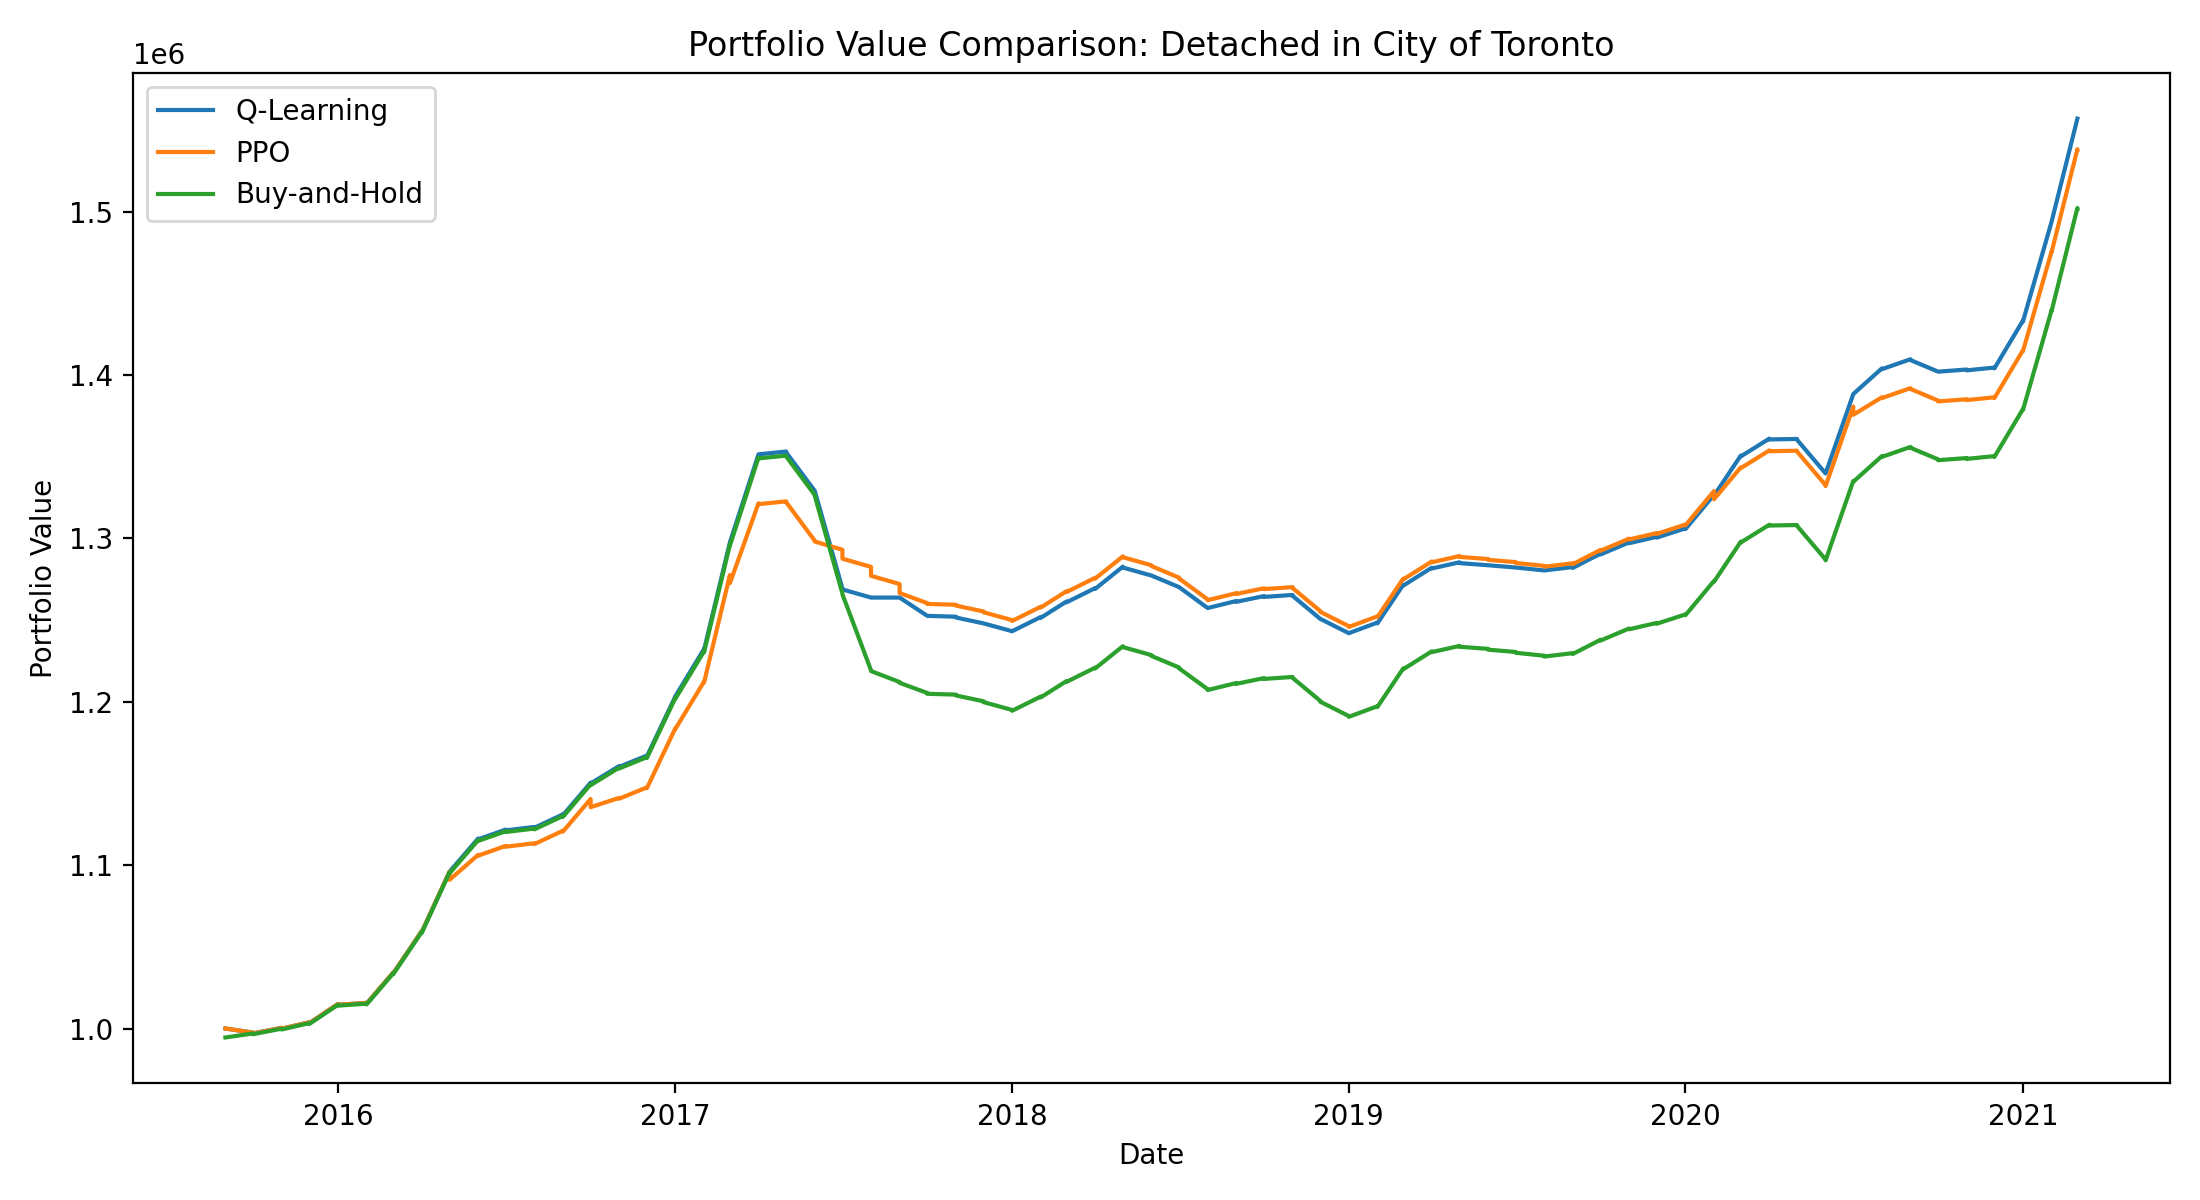
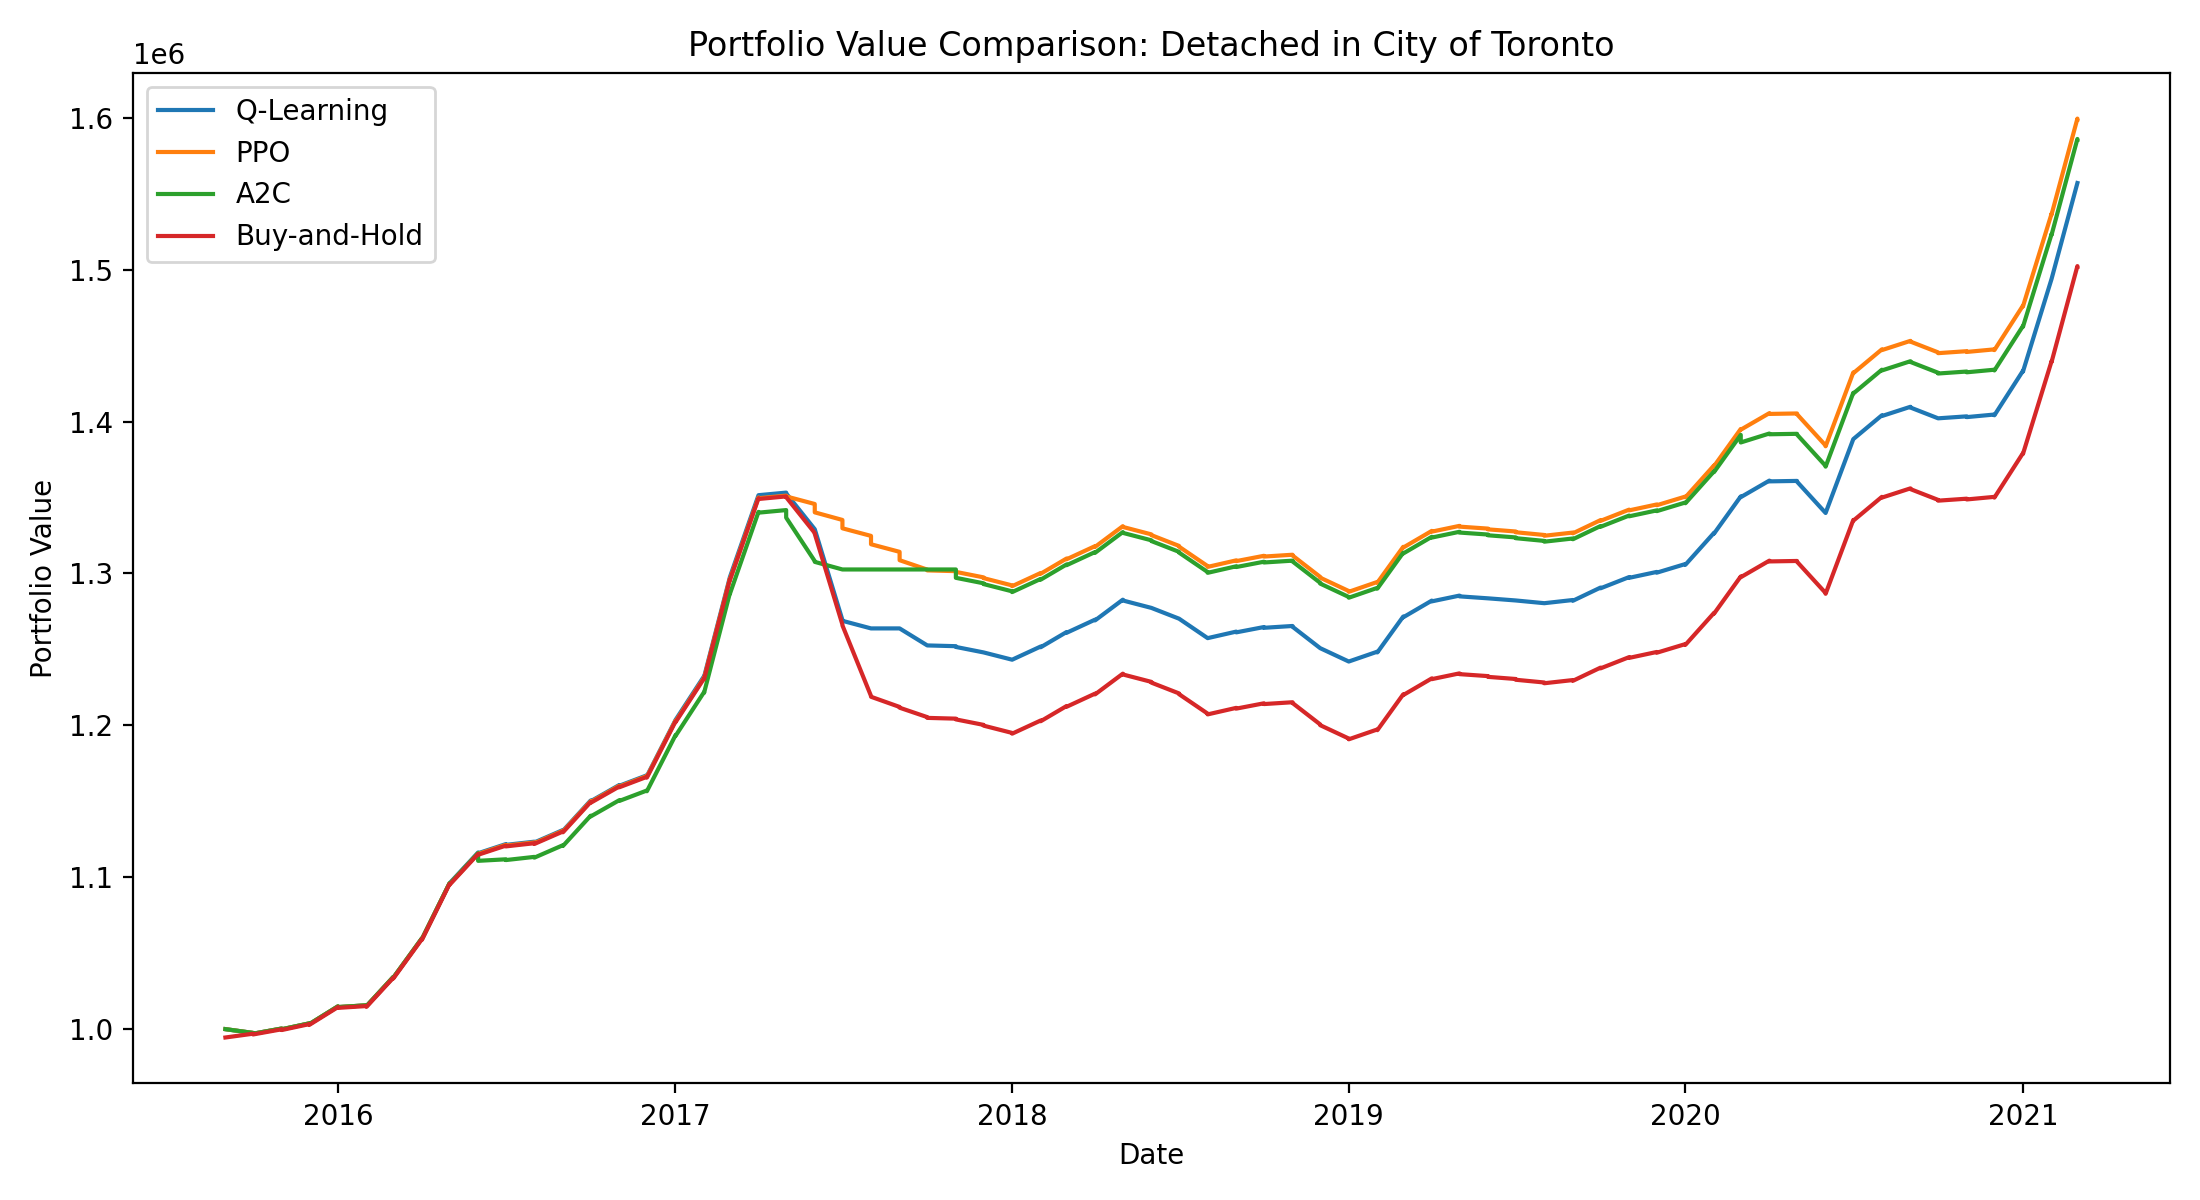
Final

diff --git a/HouseRL.py b/HouseRL.py
@@ -6,7 +6,7 @@ import matplotlib.pyplot as plt
 import numpy as np
 import pandas as pd
 from gymnasium import spaces
-from stable_baselines3 import PPO
+from stable_baselines3 import PPO, A2C
 from stable_baselines3.common.vec_env import DummyVecEnv, VecNormalize
 
 # ============================================================
@@ -38,8 +38,9 @@ EPSILON = 1.0
 EPSILON_DECAY = 0.995
 EPSILON_MIN = 0.05
 
-# PPO
+# PPO / A2C
 PPO_TIMESTEPS = 50_000
+A2C_TIMESTEPS = 150_000
 
 ACTIONS = {
     0: "BUY",
@@ -112,7 +113,6 @@ def bucket_return(x: float) -> str:
     if x < 0.02:
         return "UP_SMALL"
     return "UP_BIG"
-
 
 def bucket_momentum(x: float) -> str:
     if x < -0.02:
@@ -229,7 +229,6 @@ class QLearningAgent:
         td_error = td_target - self.q_table[state][action]
         self.q_table[state][action] += ALPHA * td_error
 
-
 def train_q_learning(df: pd.DataFrame, selected_area: str, selected_type: str):
     env = HousingEnv(df, selected_area, selected_type)
     agent = QLearningAgent()
@@ -254,7 +253,6 @@ def train_q_learning(df: pd.DataFrame, selected_area: str, selected_type: str):
 
     return agent, rewards_per_episode
 
-
 def evaluate_q_learning(agent: QLearningAgent, df: pd.DataFrame, selected_area: str, selected_type: str):
     env = HousingEnv(df, selected_area, selected_type)
     state = env.reset()
@@ -278,7 +276,7 @@ def evaluate_q_learning(agent: QLearningAgent, df: pd.DataFrame, selected_area: 
     })
 
 # ============================================================
-# GYM ENV FOR PPO
+# GYM ENV FOR PPO / A2C
 # ============================================================
 
 class HousingGymEnv(gym.Env):
@@ -367,7 +365,7 @@ class HousingGymEnv(gym.Env):
                 self.holding = 1
                 self.buy_price = current_price
             else:
-                invalid_penalty = -1.0
+                invalid_penalty = -0.2
 
         elif action == 1:  # SELL
             if self._can_sell():
@@ -375,7 +373,7 @@ class HousingGymEnv(gym.Env):
                 self.holding = 0
                 self.buy_price = 0.0
             else:
-                invalid_penalty = -1.0
+                invalid_penalty = -0.2
 
         elif action == 2:  # HOLD
             pass
@@ -390,27 +388,26 @@ class HousingGymEnv(gym.Env):
         next_price = self._current_price()
         new_value = self._portfolio_value(next_price)
 
-        # PPO learns better from scaled returns than raw dollars
         reward = 100.0 * ((new_value - old_value) / max(old_value, 1.0))
         reward += invalid_penalty
 
         if terminated:
-            return np.zeros(self.observation_space.shape, dtype=np.float32), float(reward), terminated, truncated, {}
+            zero_obs = np.zeros(self.observation_space.shape, dtype=np.float32)
+            return zero_obs, float(reward), terminated, truncated, {}
 
         return self._get_obs(), float(reward), terminated, truncated, {}
 
 # ============================================================
-# PPO TRAIN / EVAL
+# PPO / A2C TRAINING HELPERS
 # ============================================================
 
-def make_ppo_env(df: pd.DataFrame, selected_area: str, selected_type: str):
+def make_rl_env(df: pd.DataFrame, selected_area: str, selected_type: str):
     def _init():
         return HousingGymEnv(df, selected_area, selected_type)
     return _init
 
-
 def train_ppo(df: pd.DataFrame, selected_area: str, selected_type: str):
-    vec_env = DummyVecEnv([make_ppo_env(df, selected_area, selected_type)])
+    vec_env = DummyVecEnv([make_rl_env(df, selected_area, selected_type)])
     vec_env = VecNormalize(vec_env, norm_obs=True, norm_reward=True, clip_obs=10.0)
 
     model = PPO(
@@ -431,10 +428,33 @@ def train_ppo(df: pd.DataFrame, selected_area: str, selected_type: str):
     model.learn(total_timesteps=PPO_TIMESTEPS)
     return model, vec_env
 
+def train_a2c(df: pd.DataFrame, selected_area: str, selected_type: str):
+    vec_env = DummyVecEnv([make_rl_env(df, selected_area, selected_type)])
+    vec_env = VecNormalize(vec_env, norm_obs=True, norm_reward=True, clip_obs=10.0)
 
-def evaluate_ppo(model: PPO, vec_norm: VecNormalize, df: pd.DataFrame, selected_area: str, selected_type: str):
+    model = A2C(
+        "MlpPolicy",
+        vec_env,
+        learning_rate=3e-4,
+        n_steps=8,
+        gamma=0.95,
+        gae_lambda=0.95,
+        ent_coef=0.05,
+        vf_coef=0.25,
+        verbose=0,
+        seed=42,
+        device="cpu",
+    )
+
+    model.learn(total_timesteps=A2C_TIMESTEPS)
+    return model, vec_env
+
+def evaluate_policy_model(model, vec_norm: VecNormalize, df: pd.DataFrame, selected_area: str, selected_type: str, label: str):
     raw_env = HousingGymEnv(df, selected_area, selected_type)
     obs, _ = raw_env.reset()
+
+    vec_norm.training = False
+    vec_norm.norm_reward = False
 
     dates = [raw_env.df.iloc[raw_env.idx][DATE_COL]]
     values = [raw_env._portfolio_value(raw_env._current_price())]
@@ -453,7 +473,7 @@ def evaluate_ppo(model: PPO, vec_norm: VecNormalize, df: pd.DataFrame, selected_
     return pd.DataFrame({
         "Date": dates,
         "PortfolioValue": values,
-        "Model": "PPO",
+        "Model": label,
     })
 
 # ============================================================
@@ -495,10 +515,18 @@ def evaluate_buy_and_hold(df: pd.DataFrame, selected_area: str, selected_type: s
 # PLOT
 # ============================================================
 
-def plot_final_comparison(q_df: pd.DataFrame, ppo_df: pd.DataFrame, bh_df: pd.DataFrame, area: str, property_type: str):
+def plot_final_comparison(
+    q_df: pd.DataFrame,
+    ppo_df: pd.DataFrame,
+    a2c_df: pd.DataFrame,
+    bh_df: pd.DataFrame,
+    area: str,
+    property_type: str
+):
     plt.figure(figsize=(11, 6))
     plt.plot(q_df["Date"], q_df["PortfolioValue"], label="Q-Learning")
     plt.plot(ppo_df["Date"], ppo_df["PortfolioValue"], label="PPO")
+    plt.plot(a2c_df["Date"], a2c_df["PortfolioValue"], label="A2C")
     plt.plot(bh_df["Date"], bh_df["PortfolioValue"], label="Buy-and-Hold")
 
     plt.title(f"Portfolio Value Comparison: {property_type} in {area}")
@@ -525,14 +553,19 @@ if __name__ == "__main__":
     print(f"Training PPO for {property_type} in {area}...")
     ppo_model, ppo_vec_norm = train_ppo(df, area, property_type)
 
+    print(f"Training A2C for {property_type} in {area}...")
+    a2c_model, a2c_vec_norm = train_a2c(df, area, property_type)
+
     print("Evaluating models...")
     q_eval = evaluate_q_learning(q_agent, df, area, property_type)
-    ppo_eval = evaluate_ppo(ppo_model, ppo_vec_norm, df, area, property_type)
+    ppo_eval = evaluate_policy_model(ppo_model, ppo_vec_norm, df, area, property_type, "PPO")
+    a2c_eval = evaluate_policy_model(a2c_model, a2c_vec_norm, df, area, property_type, "A2C")
     bh_eval = evaluate_buy_and_hold(df, area, property_type)
 
     print("\nFinal portfolio values:")
     print(f"Q-Learning:   ${q_eval['PortfolioValue'].iloc[-1]:,.2f}")
     print(f"PPO:          ${ppo_eval['PortfolioValue'].iloc[-1]:,.2f}")
+    print(f"A2C:          ${a2c_eval['PortfolioValue'].iloc[-1]:,.2f}")
     print(f"Buy-and-Hold: ${bh_eval['PortfolioValue'].iloc[-1]:,.2f}")
 
-    plot_final_comparison(q_eval, ppo_eval, bh_eval, area, property_type)
+    plot_final_comparison(q_eval, ppo_eval, a2c_eval, bh_eval, area, property_type)
